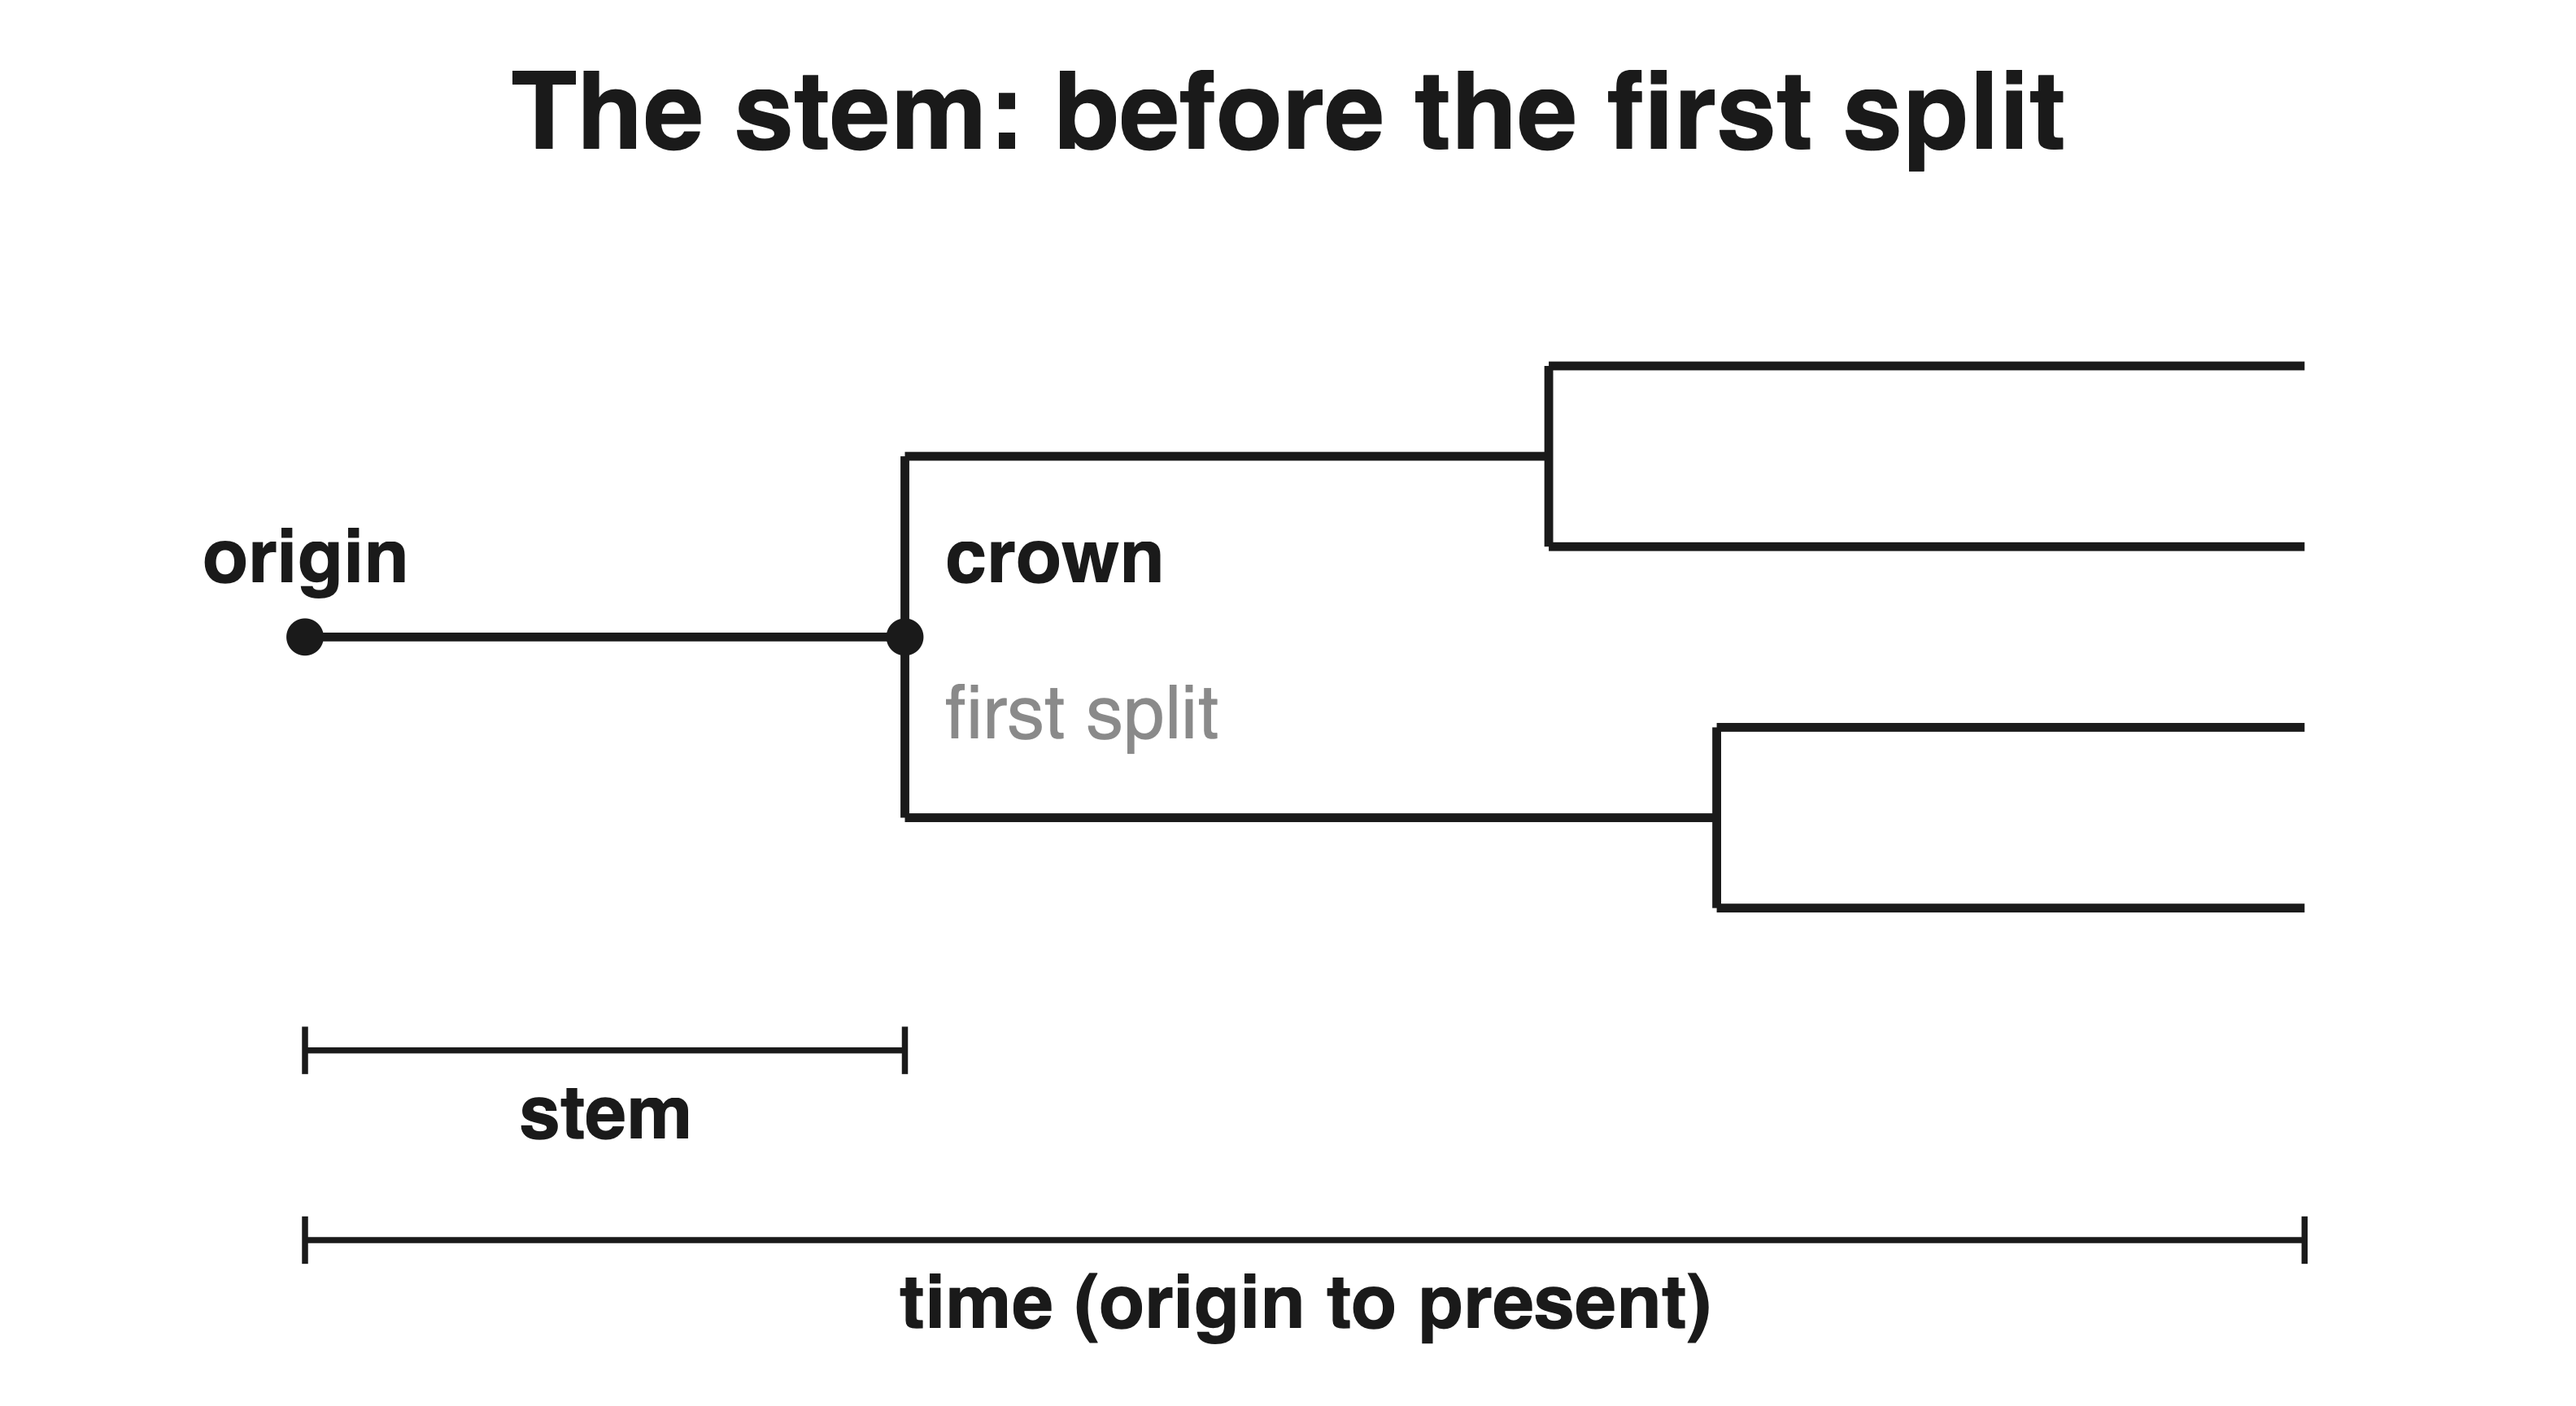
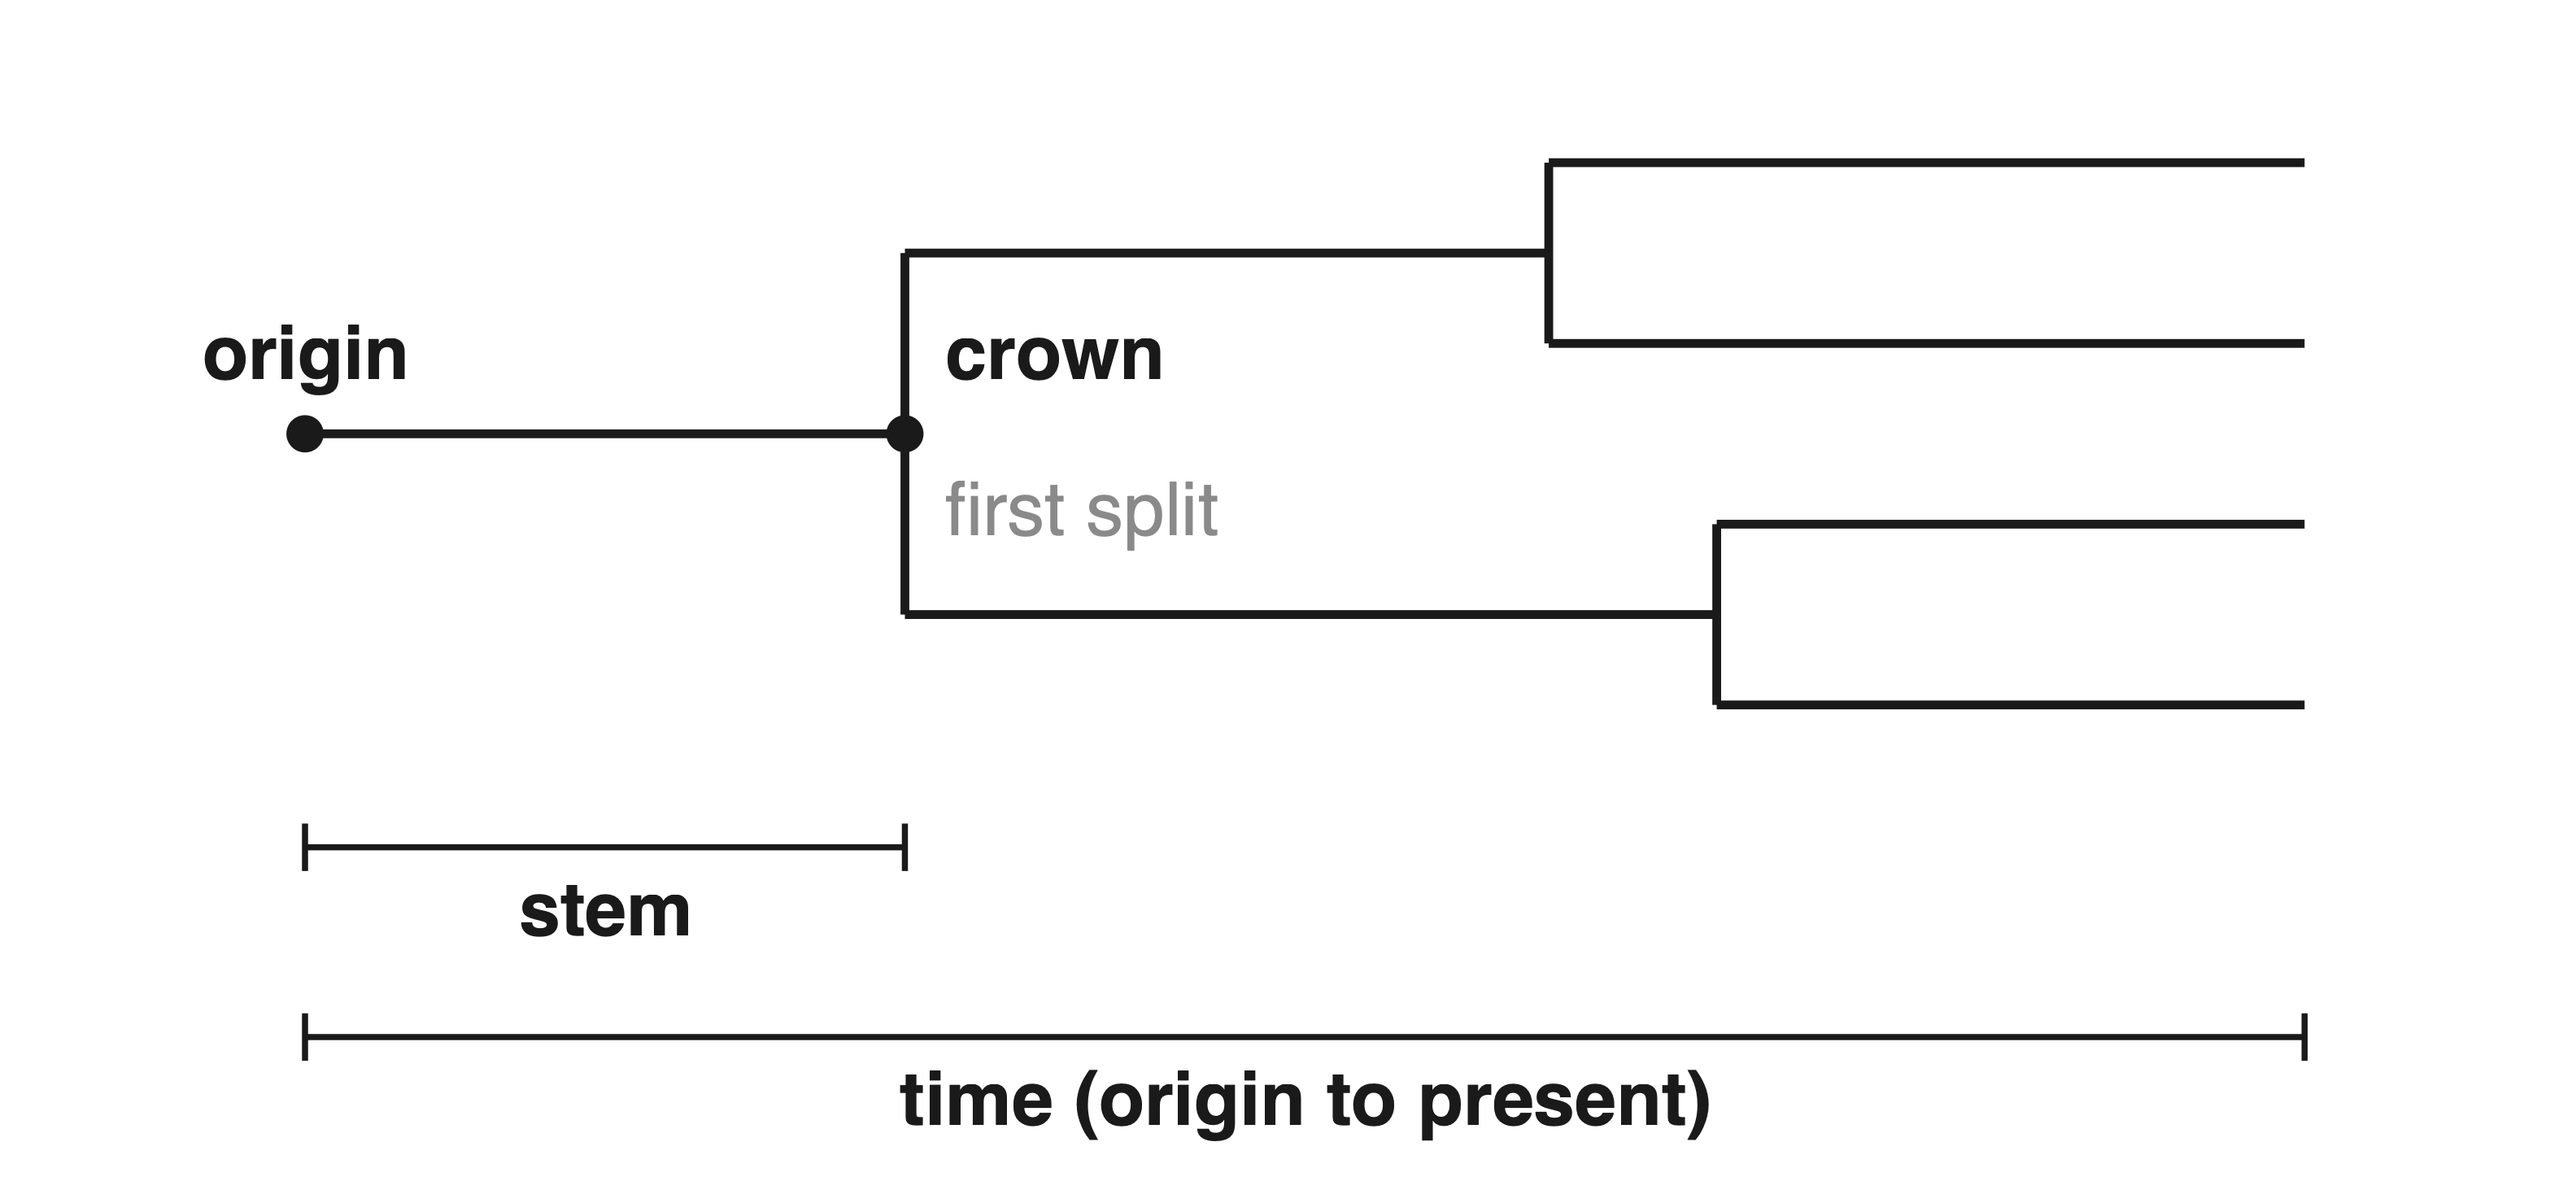
figures: no title inside a captioned figure
Both new figures carried a title that said what their caption says, a few
millimetres apart. Removed, and the space reclaimed rather than left as
a gap.

STYLE.md asked for a title ("one short bold line, horizontally centered
at the top"), so it said the opposite of what the live figures do. It now
records the reason: a manual figure is captioned, and the caption can be
a sentence, so saying it twice buys nothing.

Note the four Gillespie figures in Appendix A still have theirs.

diff --git a/figures/scripts/fig_stem.py b/figures/scripts/fig_stem.py
@@ -9,7 +9,7 @@ it — which is why every tree ZOMBI2 writes gives its root a branch length.
 Grown out of the old `fig_age_crown.py`, which compared two settings of an `age_type=` argument the
 API no longer has. The drawing is the same; what it names is not.
 
-House style: B&W, one centered title, ASCII text.
+House style: B&W, ASCII text. No title inside the figure — the manual captions it.
 
 Run:  python figures/scripts/fig_stem.py
 """
@@ -23,10 +23,10 @@ sys.path.insert(0, str(Path(__file__).resolve().parent))
 
 import drawsvg as draw
 
-from zombi_style import save, FONT, INK, MUTED, FS_TITLE, FS_LABEL, FS_ANNOT, FS_TICK
+from zombi_style import save, FONT, INK, MUTED, FS_LABEL, FS_ANNOT, FS_TICK
 
 
-W, H = 760, 415
+W, H = 760, 355
 
 # a small fixed 4-tip ultrametric tree, node times normalised 0 (crown) .. 1 (present)
 TIP_T = 1.0
@@ -75,10 +75,7 @@ def render():
     d = draw.Drawing(W, H, origin=(0, 0))
     d.append(draw.Rectangle(0, 0, W, H, fill="white"))
 
-    d.append(draw.Text("The stem: before the first split", FS_TITLE, W / 2, 44, font_family=FONT,
-                       text_anchor="middle", font_weight="bold", fill=INK))
-
-    ytop, ybot = 108, 268
+    ytop, ybot = 48, 208
     x0, x1 = 90, 680                                       # origin ... present
     xcrown = x0 + STEM_FRACTION * (x1 - x0)
 
@@ -96,8 +93,8 @@ def render():
     d.append(draw.Text("first split", FS_ANNOT, xcrown + 12, yC + 30, font_family=FONT,
                        text_anchor="start", fill=MUTED, font_style="italic"))
 
-    span(d, x0, xcrown, 310, "stem")
-    span(d, x0, x1, 366, "time (origin to present)")
+    span(d, x0, xcrown, 250, "stem")
+    span(d, x0, x1, 306, "time (origin to present)")
 
     save(d, "stem")
 

diff --git a/figures/scripts/fig_species_tree_extinct.py b/figures/scripts/fig_species_tree_extinct.py
@@ -33,7 +33,7 @@ import drawsvg as draw
 import phylustrator as ph
 from phylustrator.io import read_newick
 
-from zombi_style import save, INK, species_style, FS_TITLE, FS_LABEL, FS_TICK
+from zombi_style import save, INK, species_style, FS_LABEL, FS_TICK
 
 FIG_DIR = Path(__file__).resolve().parent.parent
 TREE_NWK = FIG_DIR / "species_tree_extinct" / "species_tree.nwk"
@@ -150,14 +150,9 @@ def main() -> None:
                     label="Time (root to present)", tick_size=6.0, padding=14.0,
                     stroke_width=1.6)
 
-    # title: one short bold line, horizontally centered at the top
-    d.drawing.append(draw.Text("A species tree with extinct lineages", FS_TITLE, 0,
-                               -style.height / 2 + 44, font_weight="bold",
-                               font_family=style.font_family, text_anchor="middle",
-                               dominant_baseline="central", fill=INK))
-
-    # top-left open band, just under the title and left of where the crown spreads
-    add_legend(d, x=-style.width / 2 + 40, y=-style.height / 2 + 150)
+    # No title inside the figure: the manual captions it, and a title would say it twice.
+    # top-left open band, left of where the crown spreads
+    add_legend(d, x=-style.width / 2 + 40, y=-style.height / 2 + 110)
 
     save(d.drawing, "species_tree")
     print(f"  ({len(extant)} extant + {len(extinct)} extinct tips)")

diff --git a/figures/STYLE.md b/figures/STYLE.md
@@ -22,7 +22,7 @@ longer uses. They are still the reference for *how to draw*; read them there.
 These are the conventions the rewrite settled on. They outrank anything below.
 
 - **Black and white / neutral.** No colour to distinguish levels.
-- **No subtitles.**
+- **No title and no subtitle inside the figure** — the caption carries both.
 - **Nodes:** rounded rectangles, white fill, ink outline, ink label; **plural** labels.
 - **The four-levels layout:** a vertical chain **Species → Genomes → Sequences**, with **Traits**
   branching to the side from Species on a **curved** arrow, at the same height as Genomes. It is not
@@ -44,8 +44,9 @@ tree, survivors solid and extinct lineages dashed).
 ## Typography
 - Font: `FONT` (Helvetica). Sizes come from the shared scale in `zombi_style.py`:
   `FS_TITLE=32`, `FS_LABEL=22`, `FS_ANNOT=20`, `FS_TICK=18`. Never hard-code small sizes.
-- **Title**: one short bold line, **horizontally centered** at the top
-  (`text_anchor="middle"`, `x = W/2`). **No subtitle.**
+- **No title inside the figure.** Every figure in the manual is captioned, and a title repeats
+  the caption in a second voice a few millimetres above it. Say it once, in the caption, where it
+  can be a sentence. (No subtitle either — that was never in question.)
 - **ASCII only** in text — `rsvg`/`cairosvg` render `->`... no: do NOT use `→ λ μ θ × ≤`
   etc. (they become tofu boxes). Use words ("to", "lambda", "theta") or *draw* the symbol.
 
